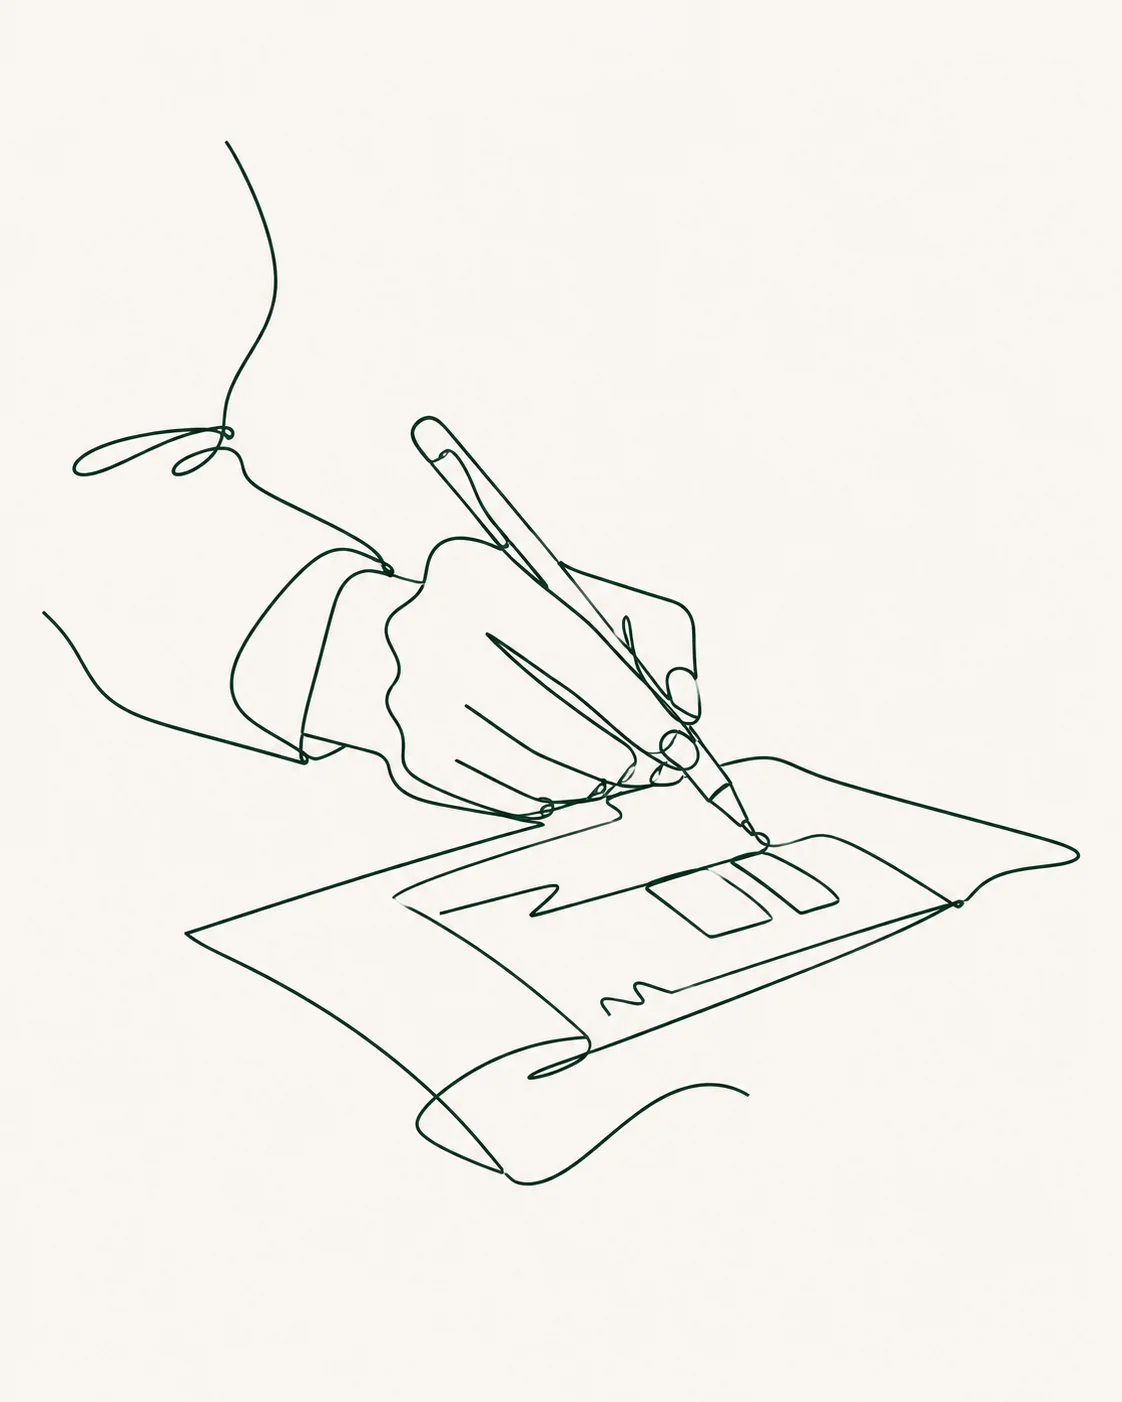
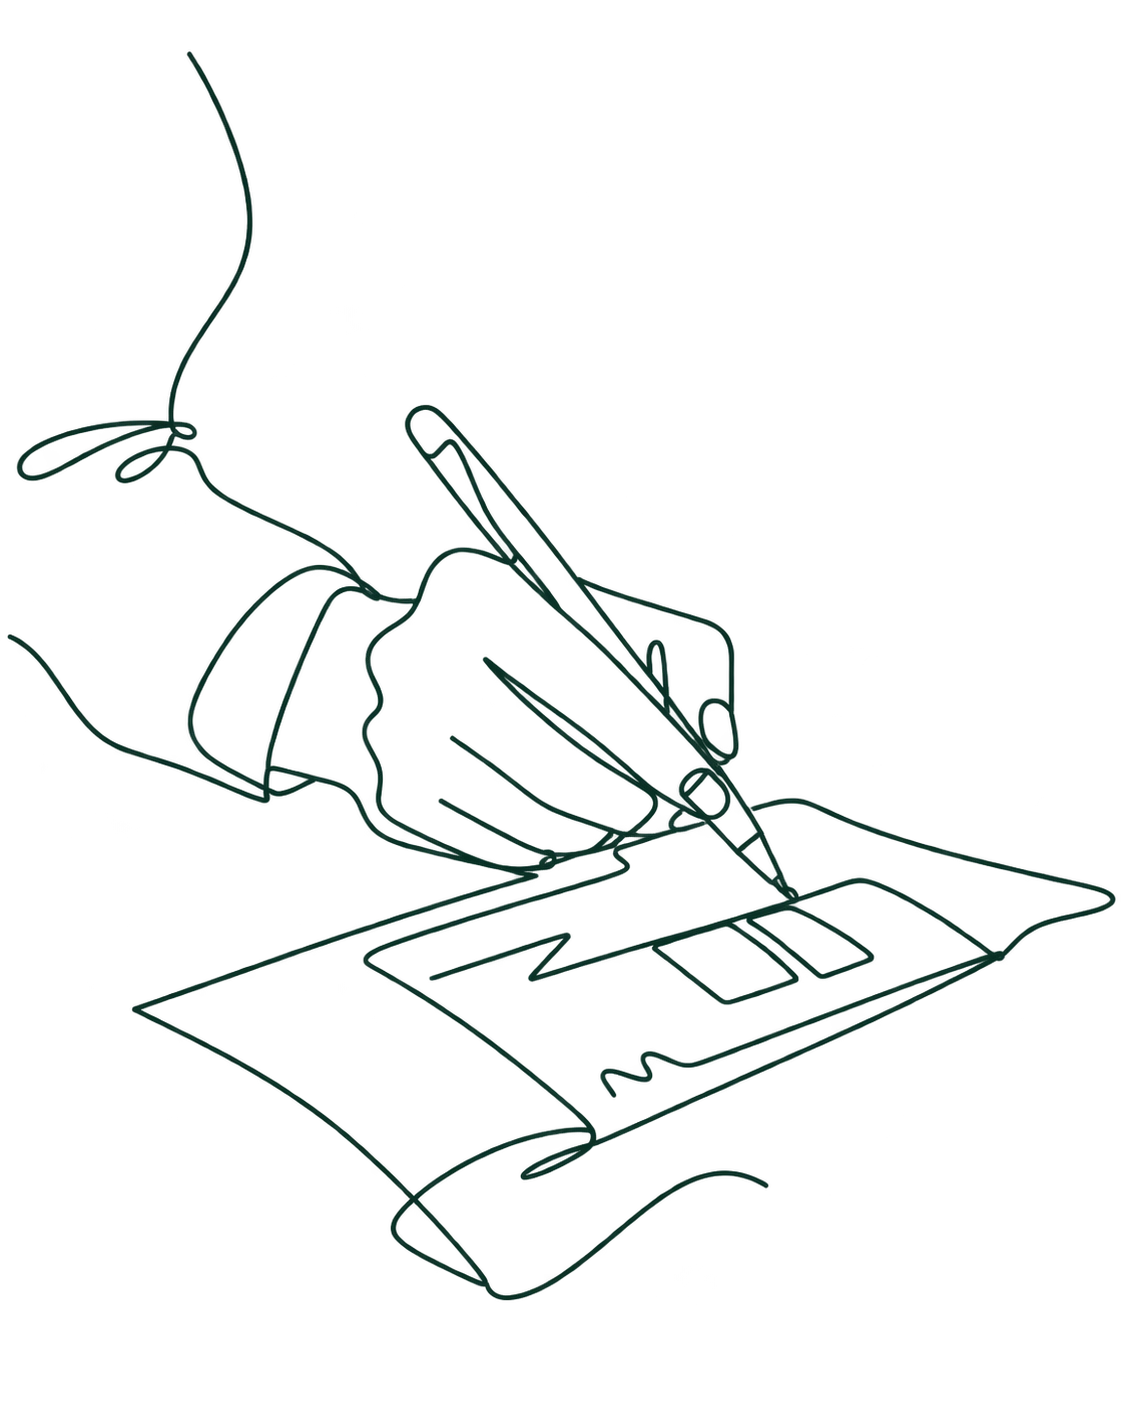
Drop the card frame around illustrations, use transparent PNGs
Swap in the transparent-background version of Para marcas and scope
the .ph border/background to placeholder slots only (:has(img)
removes both), so real illustrations float directly on the page
instead of sitting in a bordered card. Switch object-fit to contain
so line art is never cropped.

diff --git a/src/base.css b/src/base.css
@@ -388,10 +388,15 @@ h4 {
   overflow: hidden;
 }
 
+.ph:has(img) {
+  background: none;
+  border: none;
+}
+
 .ph img {
   width: 100%;
   height: 100%;
-  object-fit: cover;
+  object-fit: contain;
 }
 
 .ph__label {
